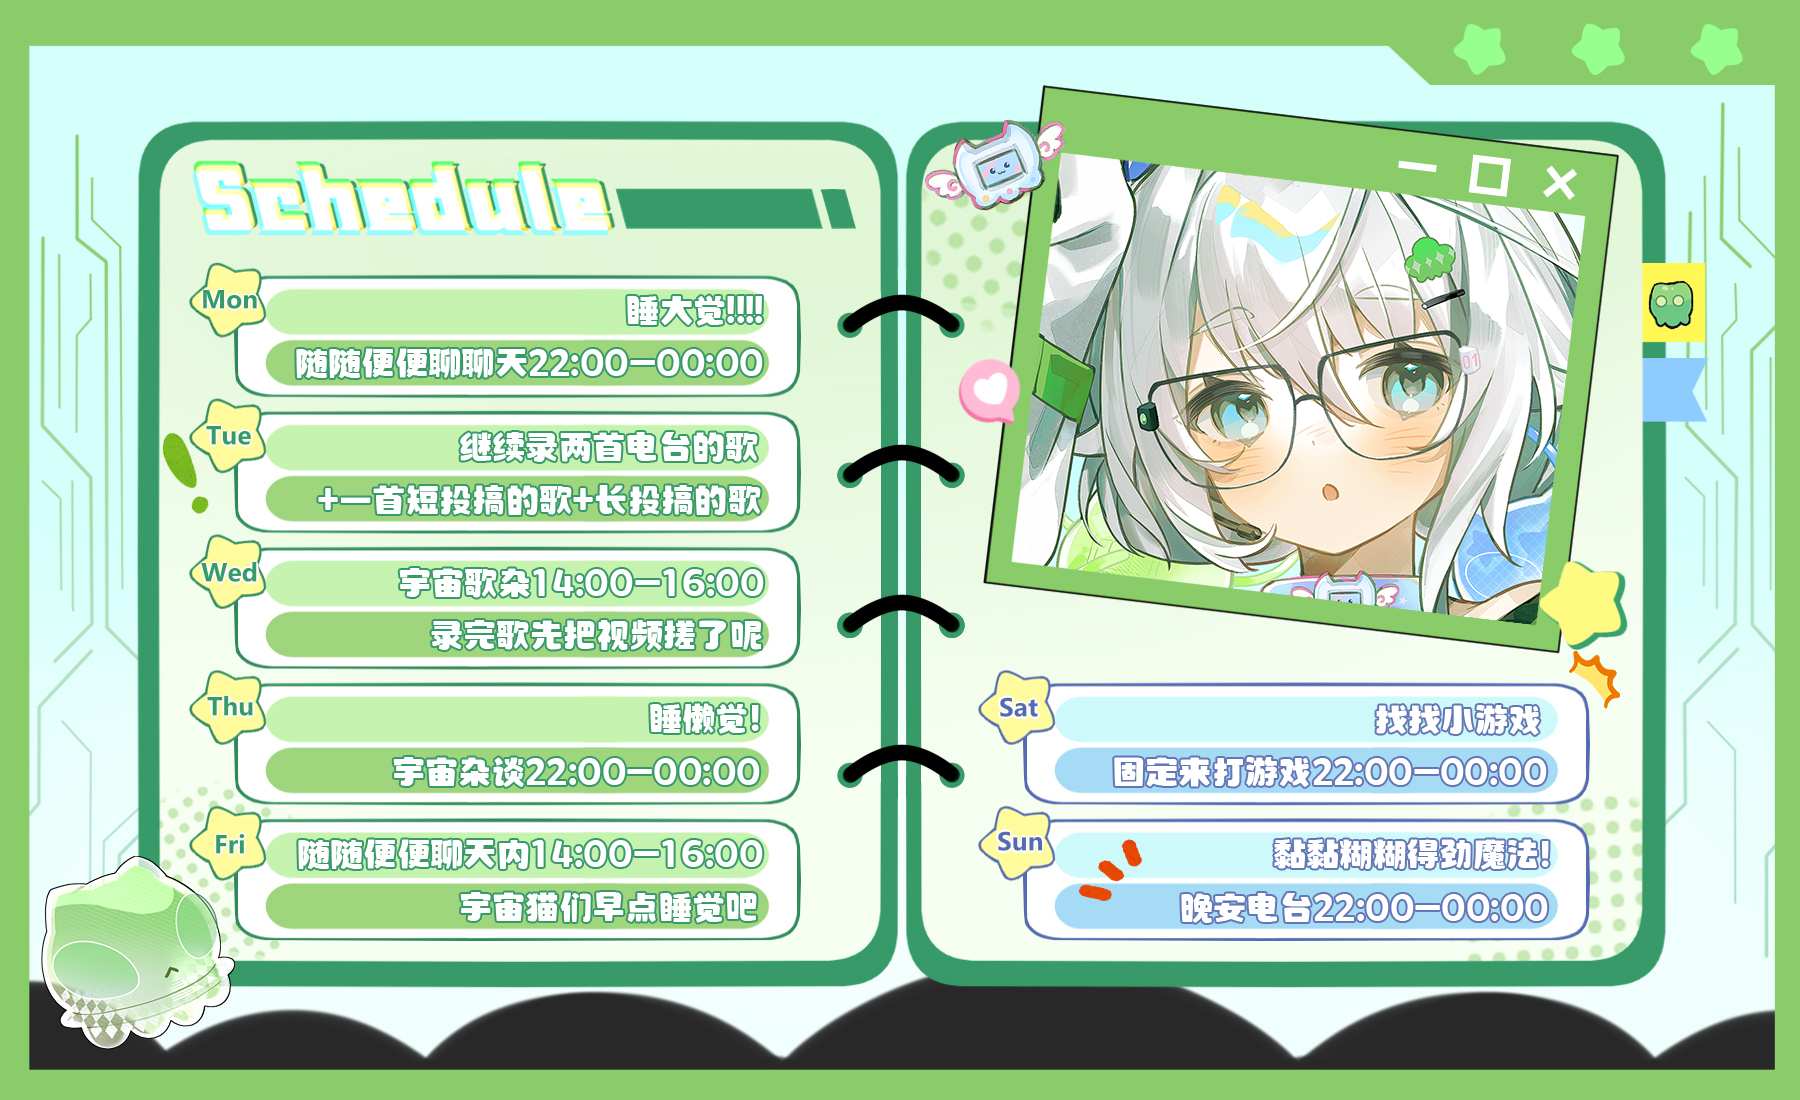
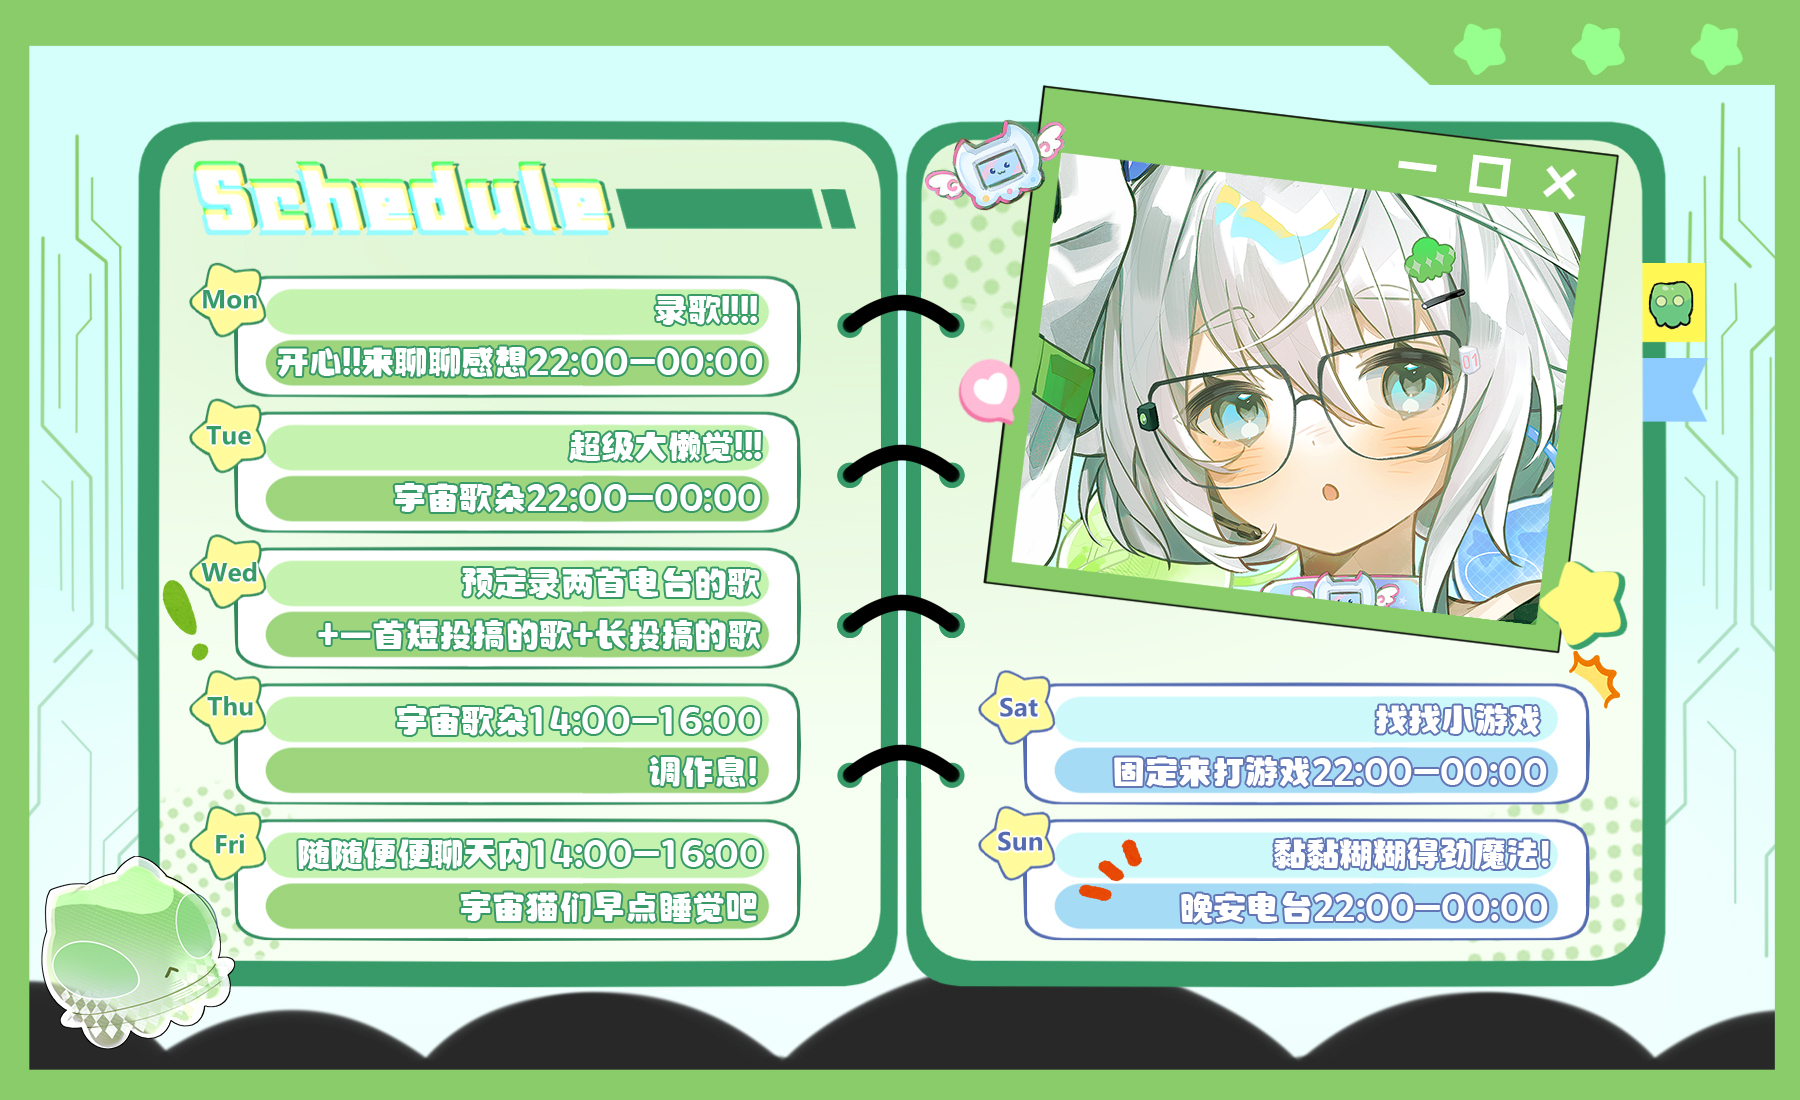
自动更新 2026-09-22 18:18

Changed region(s): [[0.1556, 0.2473, 0.4356, 0.7418], [0.0933, 0.5255, 0.1244, 0.6182], [0.0933, 0.4018, 0.1244, 0.4636]]

diff --git a/index.html b/index.html
@@ -293,7 +293,7 @@
     <h2><span class="no">QUEST</span>每周计划</h2>
   </div>
   <div class="wk-head reveal">
-    <span class="wk-status"><span class="dot" aria-hidden="true"></span><span id="planWhen">更新于 <span class="wk-date">2026年9月21日</span></span></span>
+    <span class="wk-status"><span class="dot" aria-hidden="true"></span><span id="planWhen">更新于 <span class="wk-date">2026年9月22日</span></span></span>
     <h2 class="wk-title">本周计划</h2>
     <p class="wk-sub">周表内容来自主页置顶动态的第一张图，每周自动检查一次，置顶动态更新后自动抓取替换。</p>
     <ul class="wk-list">
@@ -310,7 +310,7 @@
              自动生成两份：schedule-week.png（静止显示 1140px 无损，页面按 570px 显示=2 倍素材高分屏不糊）、
              schedule-week-full.png（无损原图，悬停与单击大图共用）；
              同时把上方「更新于 X年X月X日」改成抓取/上传那天的日期 -->
-        <img id="weekImg" src="images/schedule-week.png?v=202609212029" alt="本周周表照片" referrerpolicy="no-referrer">
+        <img id="weekImg" src="images/schedule-week.png?v=202609221812" alt="本周周表照片" referrerpolicy="no-referrer">
         <div class="wk-q" id="weekFail" hidden>？</div>
       </div>
     </div>
@@ -1030,8 +1030,8 @@
     var KEY  = "chu2u-week-v2";          /* 远程抓取缓存 {id, img, ts, week} */
     var DKEY = "chu2u-week-drop";        /* 拖入图片缓存 {img, ts} */
     var UID = "2138961136";
-    var LOCAL = "images/schedule-week.png?v=202609212029";      /* 静止显示版（1140px 素材按 570px 显示）；?v= 由维护脚本换图时自动改日期，绕过浏览器缓存 */
-    var FULL  = "images/schedule-week-full.png?v=202609212029"; /* 无损原图（悬停与单击大图共用） */
+    var LOCAL = "images/schedule-week.png?v=202609221812";      /* 静止显示版（1140px 素材按 570px 显示）；?v= 由维护脚本换图时自动改日期，绕过浏览器缓存 */
+    var FULL  = "images/schedule-week-full.png?v=202609221812"; /* 无损原图（悬停与单击大图共用） */
     var when    = document.getElementById("planWhen");
     var img     = document.getElementById("weekImg");
     var fail    = document.getElementById("weekFail");
